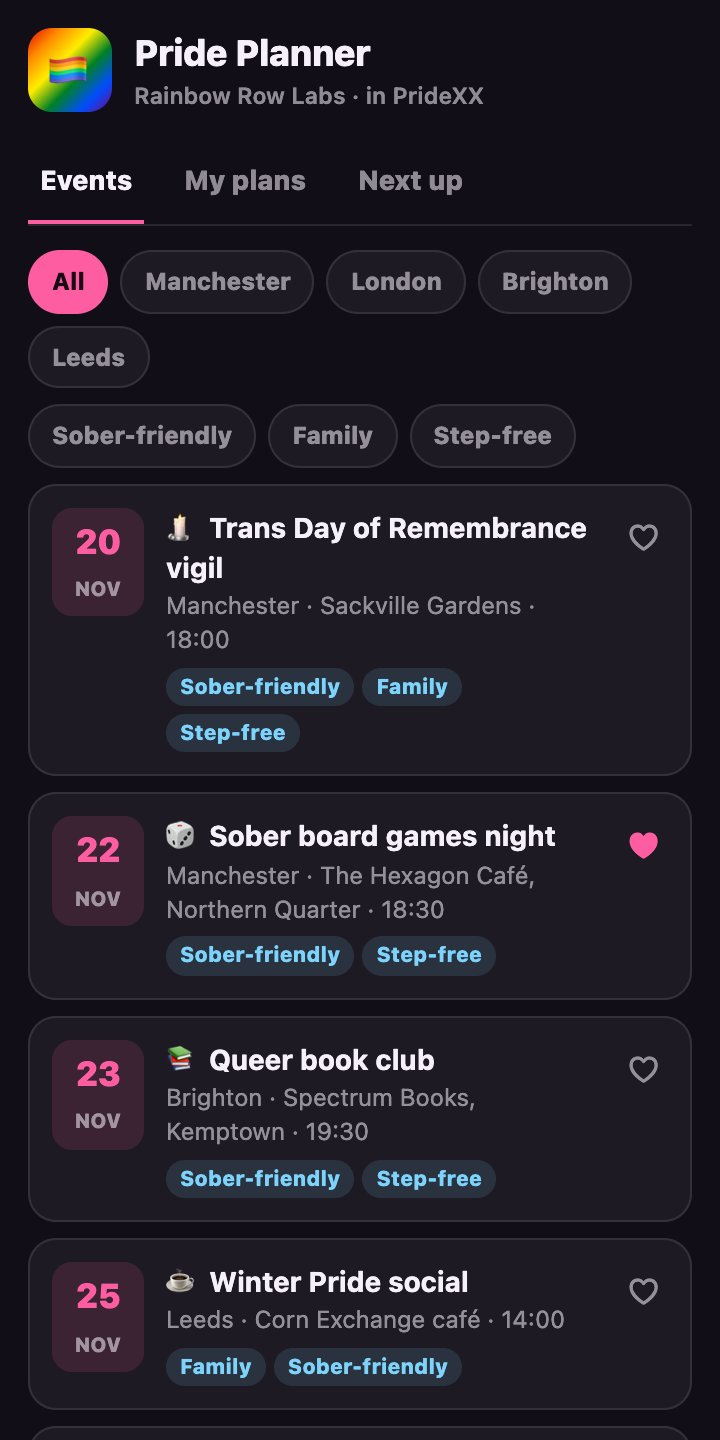
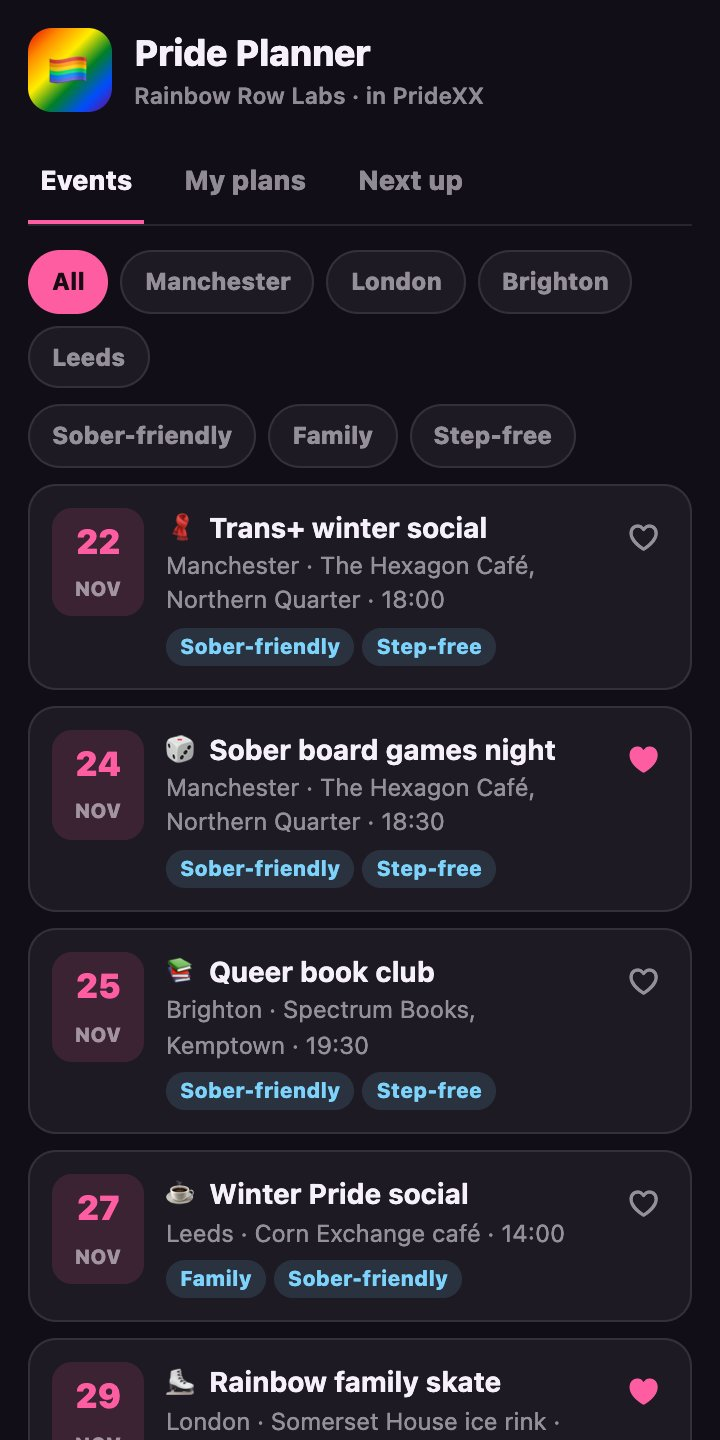
-89 apps for prideXX

diff --git a/apps/pride-planner.html b/apps/pride-planner.html
@@ -34,7 +34,7 @@ body{background:var(--bg);color:var(--ink);font:14px/1.45 -apple-system,BlinkMac
 <script src="gx-sdk.js"></script>
 <script>
 const seed=()=>({saved:[1,4,7],evs:[
-  {t:'Trans Day of Remembrance vigil',city:'Manchester',where:'Sackville Gardens',off:1,time:'18:00',em:'🕯',tags:['sober','family','stepfree']},
+  {t:'Trans+ winter social',city:'Manchester',where:'The Hexagon Café, Northern Quarter',off:1,time:'18:00',em:'🧣',tags:['sober','stepfree']},
   {t:'Sober board games night',city:'Manchester',where:'The Hexagon Café, Northern Quarter',off:3,time:'18:30',em:'🎲',tags:['sober','stepfree']},
   {t:'Queer book club',city:'Brighton',where:'Spectrum Books, Kemptown',off:4,time:'19:30',em:'📚',tags:['sober','stepfree']},
   {t:'Winter Pride social',city:'Leeds',where:'Corn Exchange café',off:6,time:'14:00',em:'☕',tags:['family','sober']},
